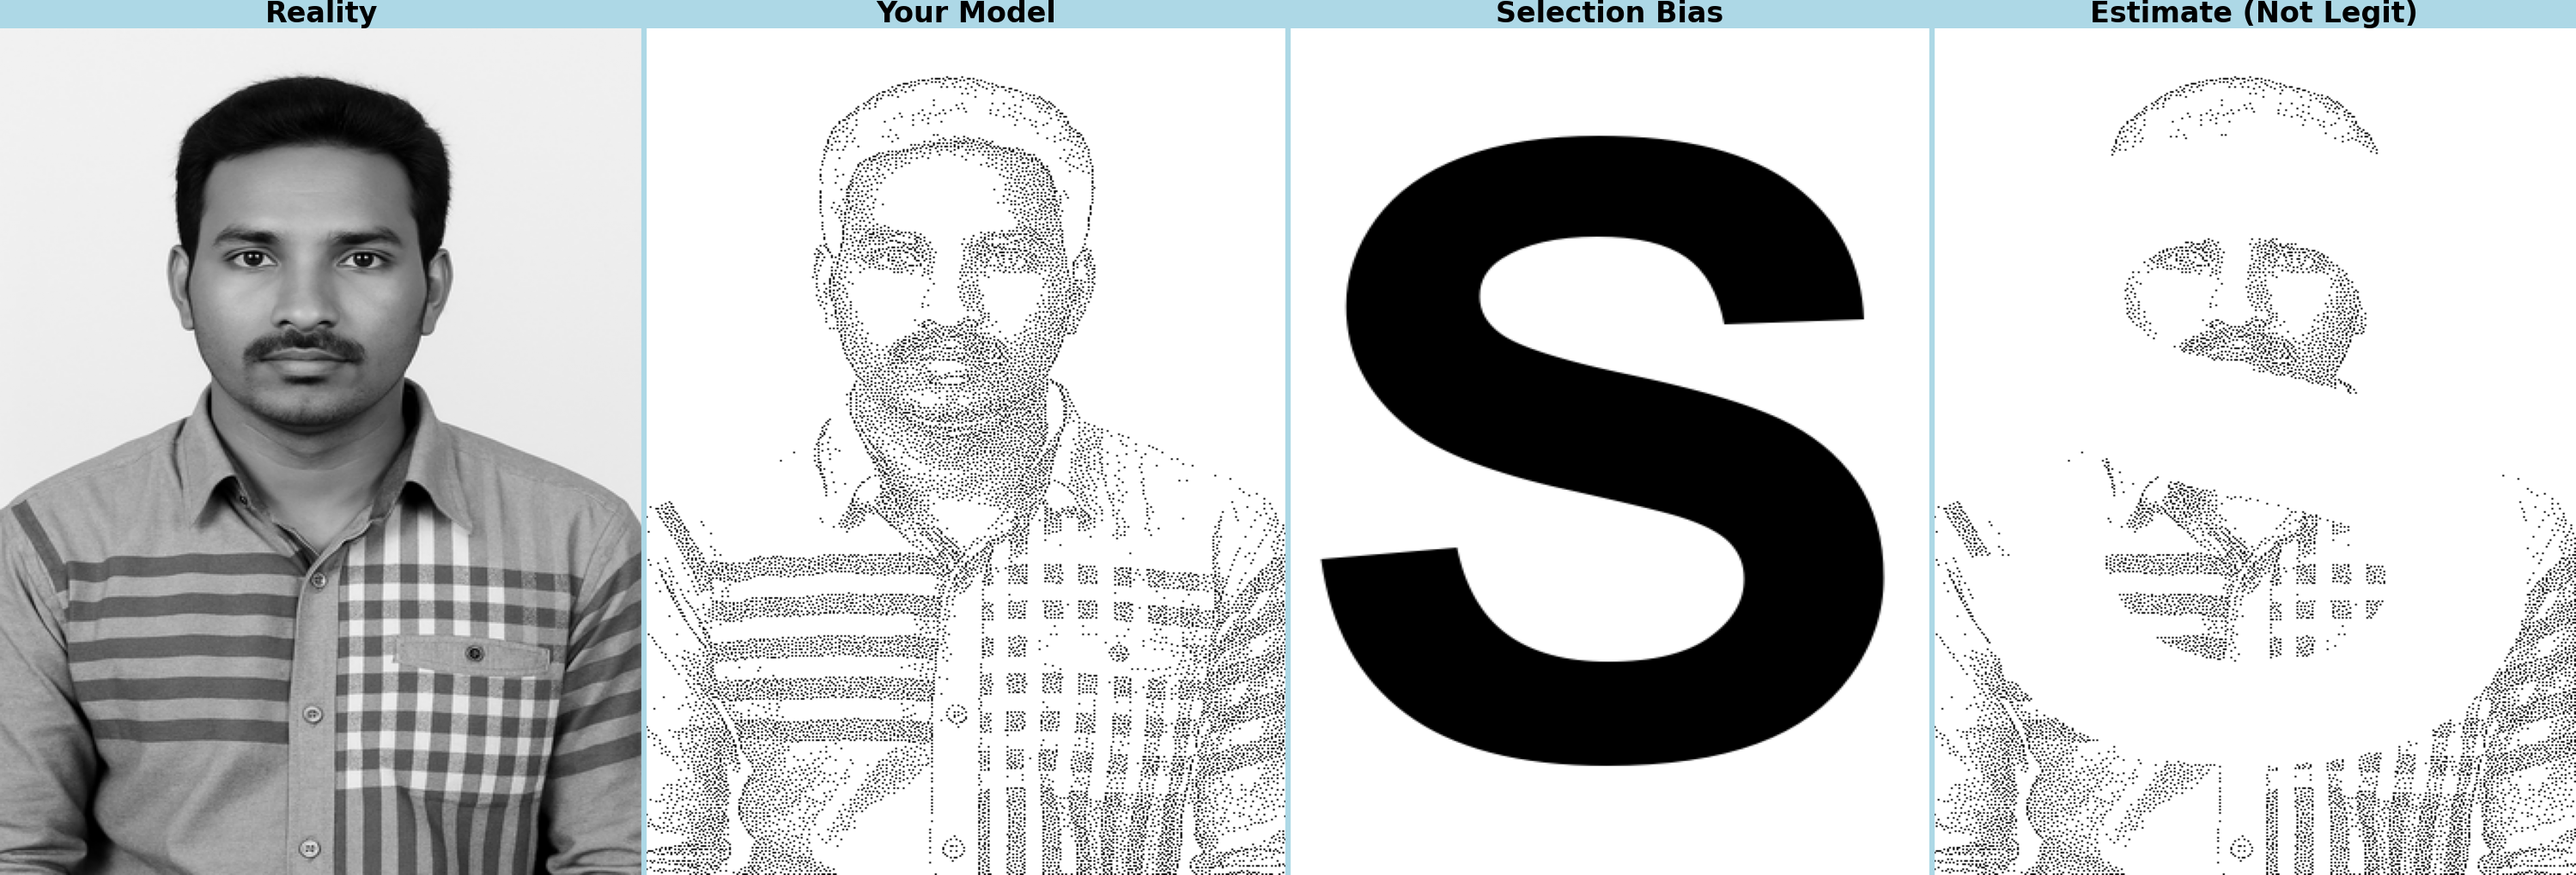
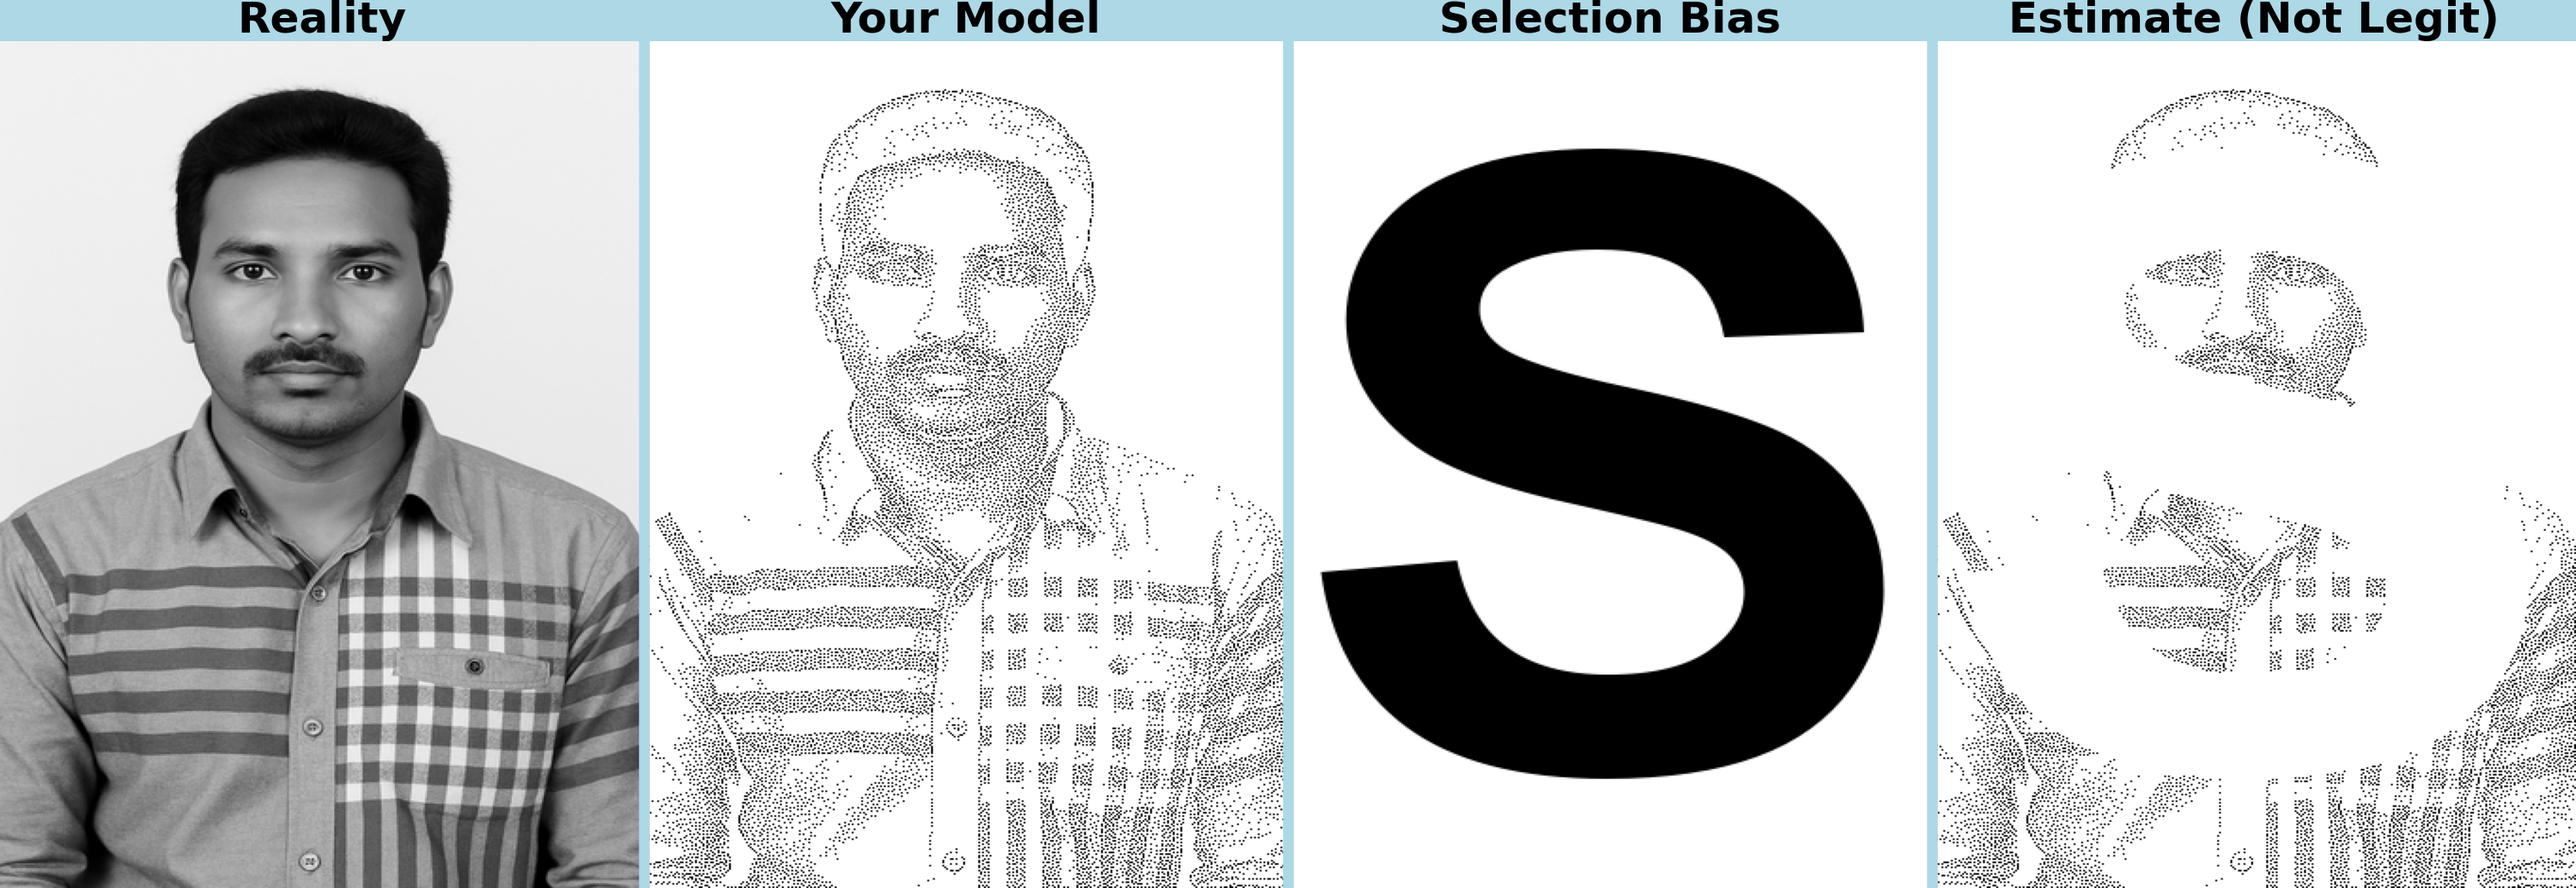
updated

diff --git a/create_meme.py b/create_meme.py
@@ -86,14 +86,14 @@ def create_statistics_meme(
         ax = fig.add_subplot(gs[0, i])
         ax.imshow(img_data, cmap='gray', vmin=0, vmax=1, aspect='auto')
         ax.axis('off')
-        ax.set_title(label, fontsize=16, fontweight='bold', pad=2)
+        ax.set_title(label, fontsize=24, fontweight='bold', pad=2)
     
     # Add vertical separator lines between panels
     for x_pos in [0.25, 0.5, 0.75]:
         line = Line2D([x_pos, x_pos], [0.03, 0.97],
                      transform=fig.transFigure,
                      color='lightblue',
-                     linewidth=3,
+                     linewidth=6,
                      clip_on=False,
                      zorder=10)
         fig.add_artist(line)
